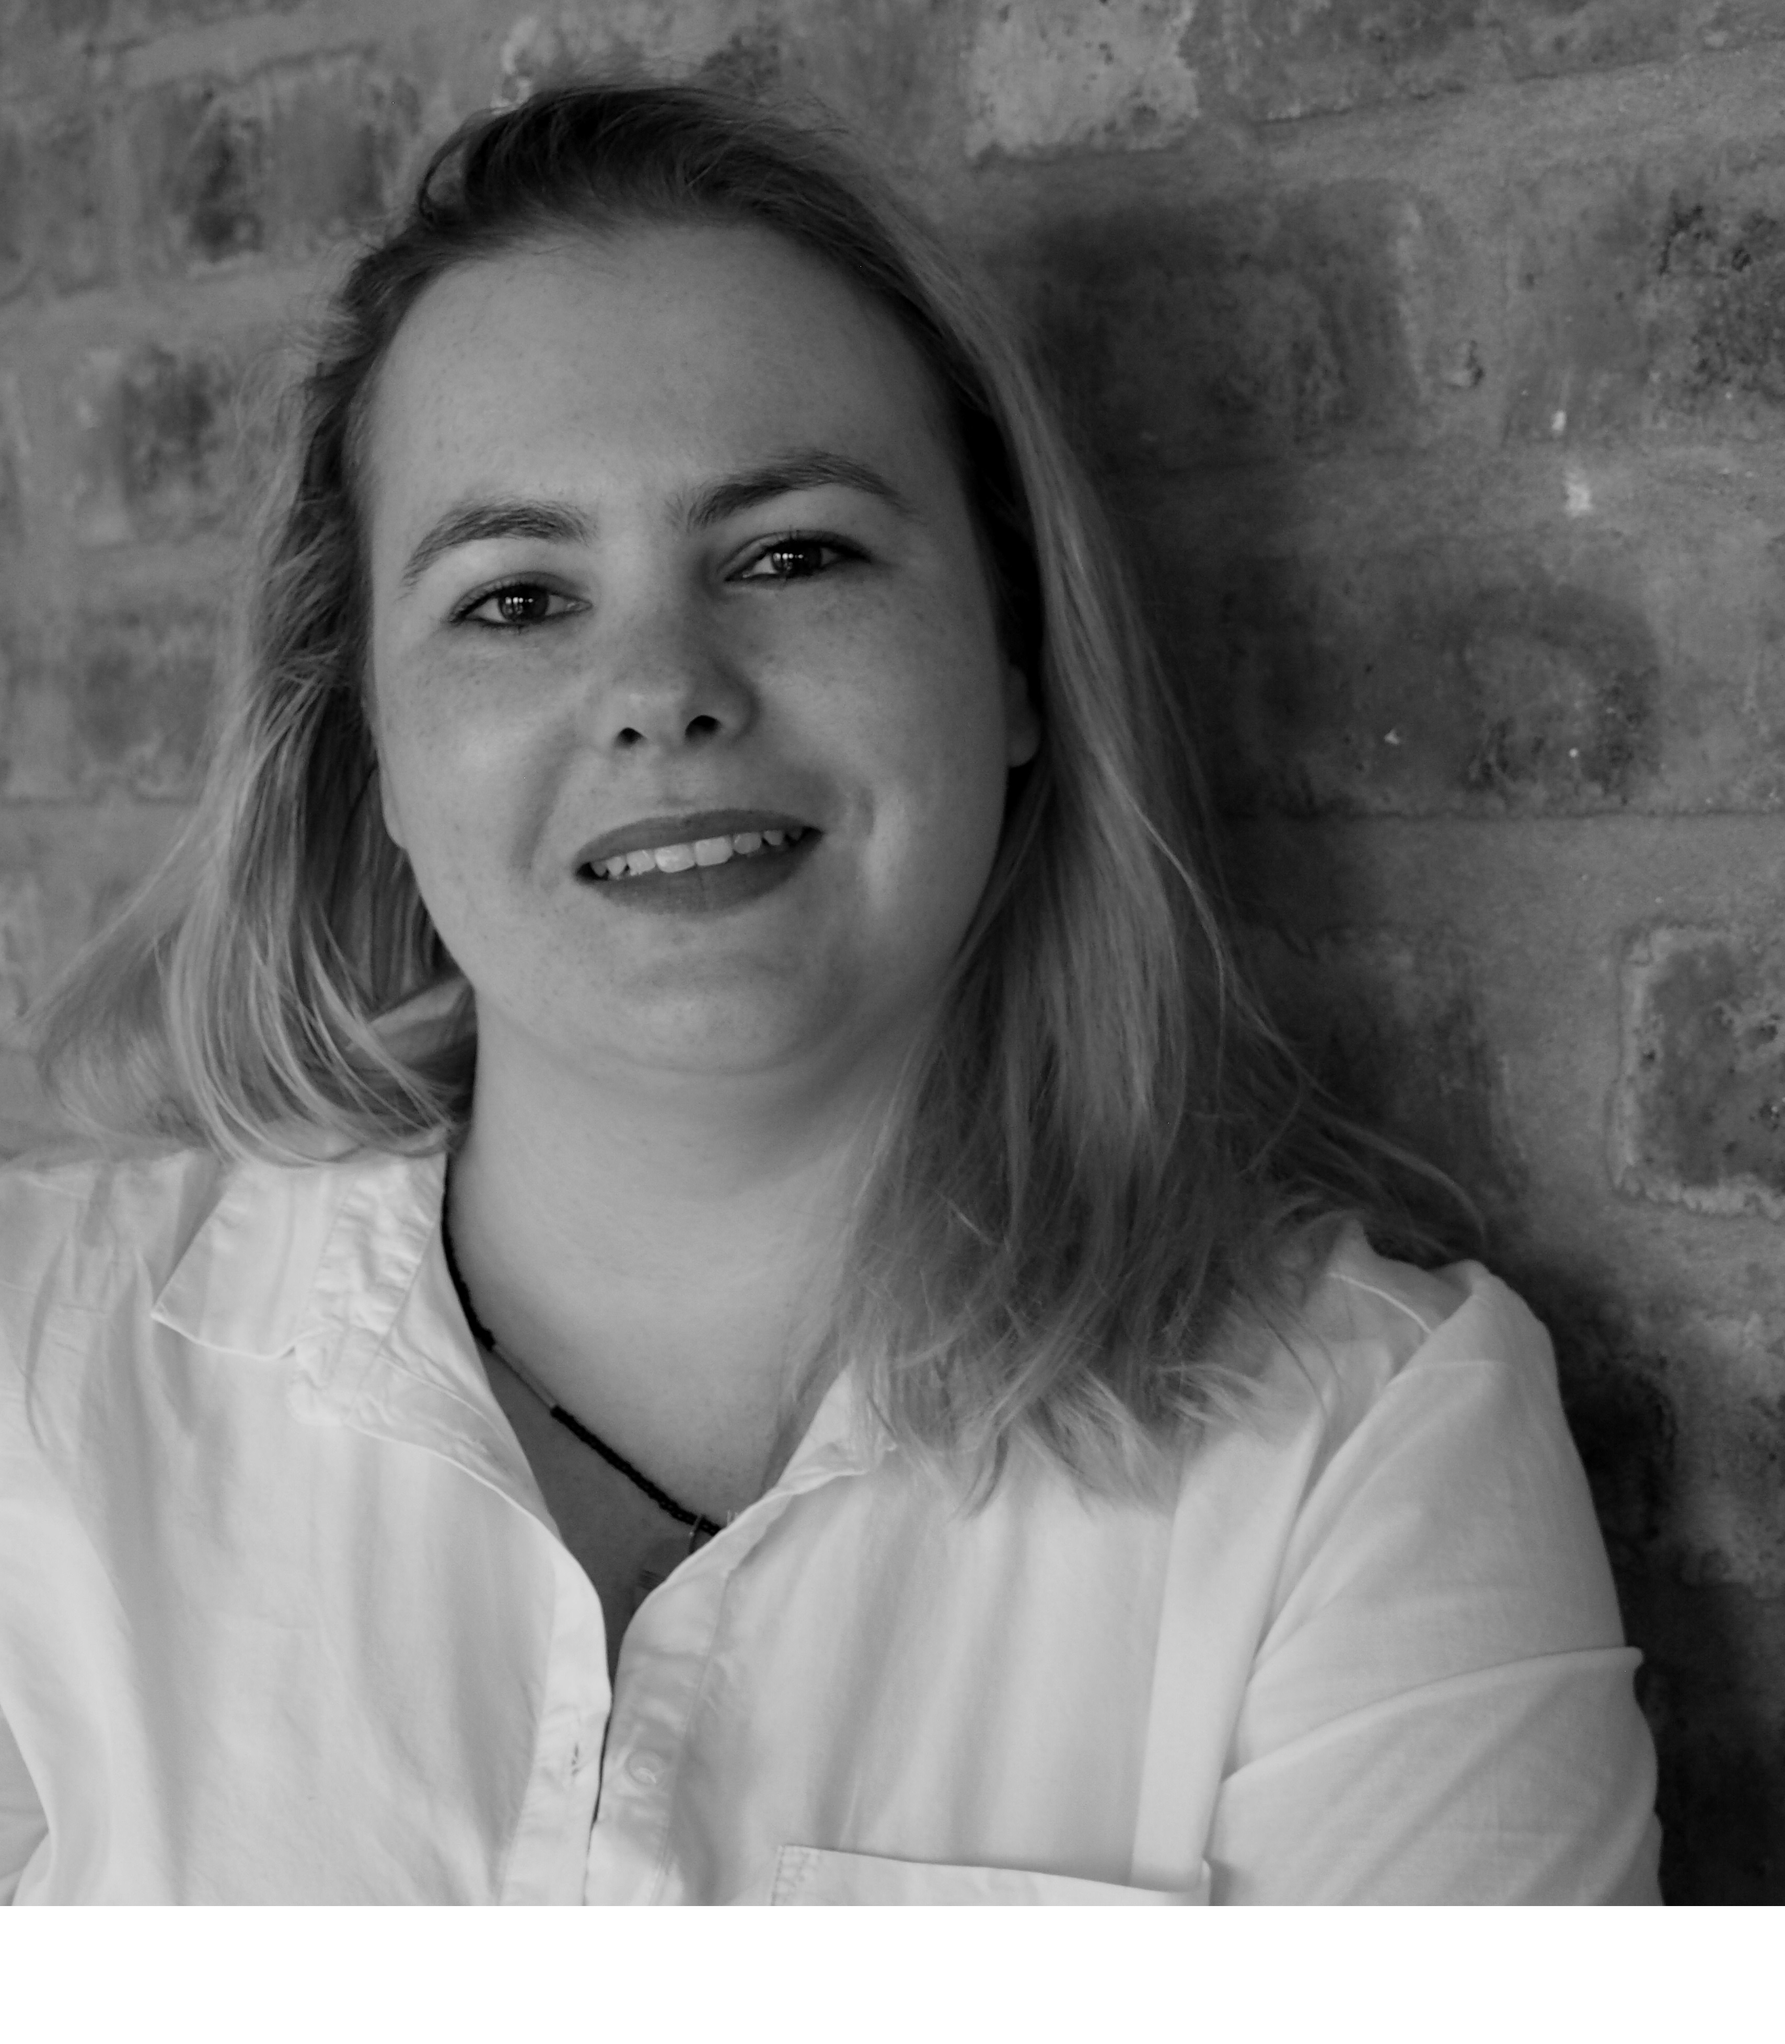
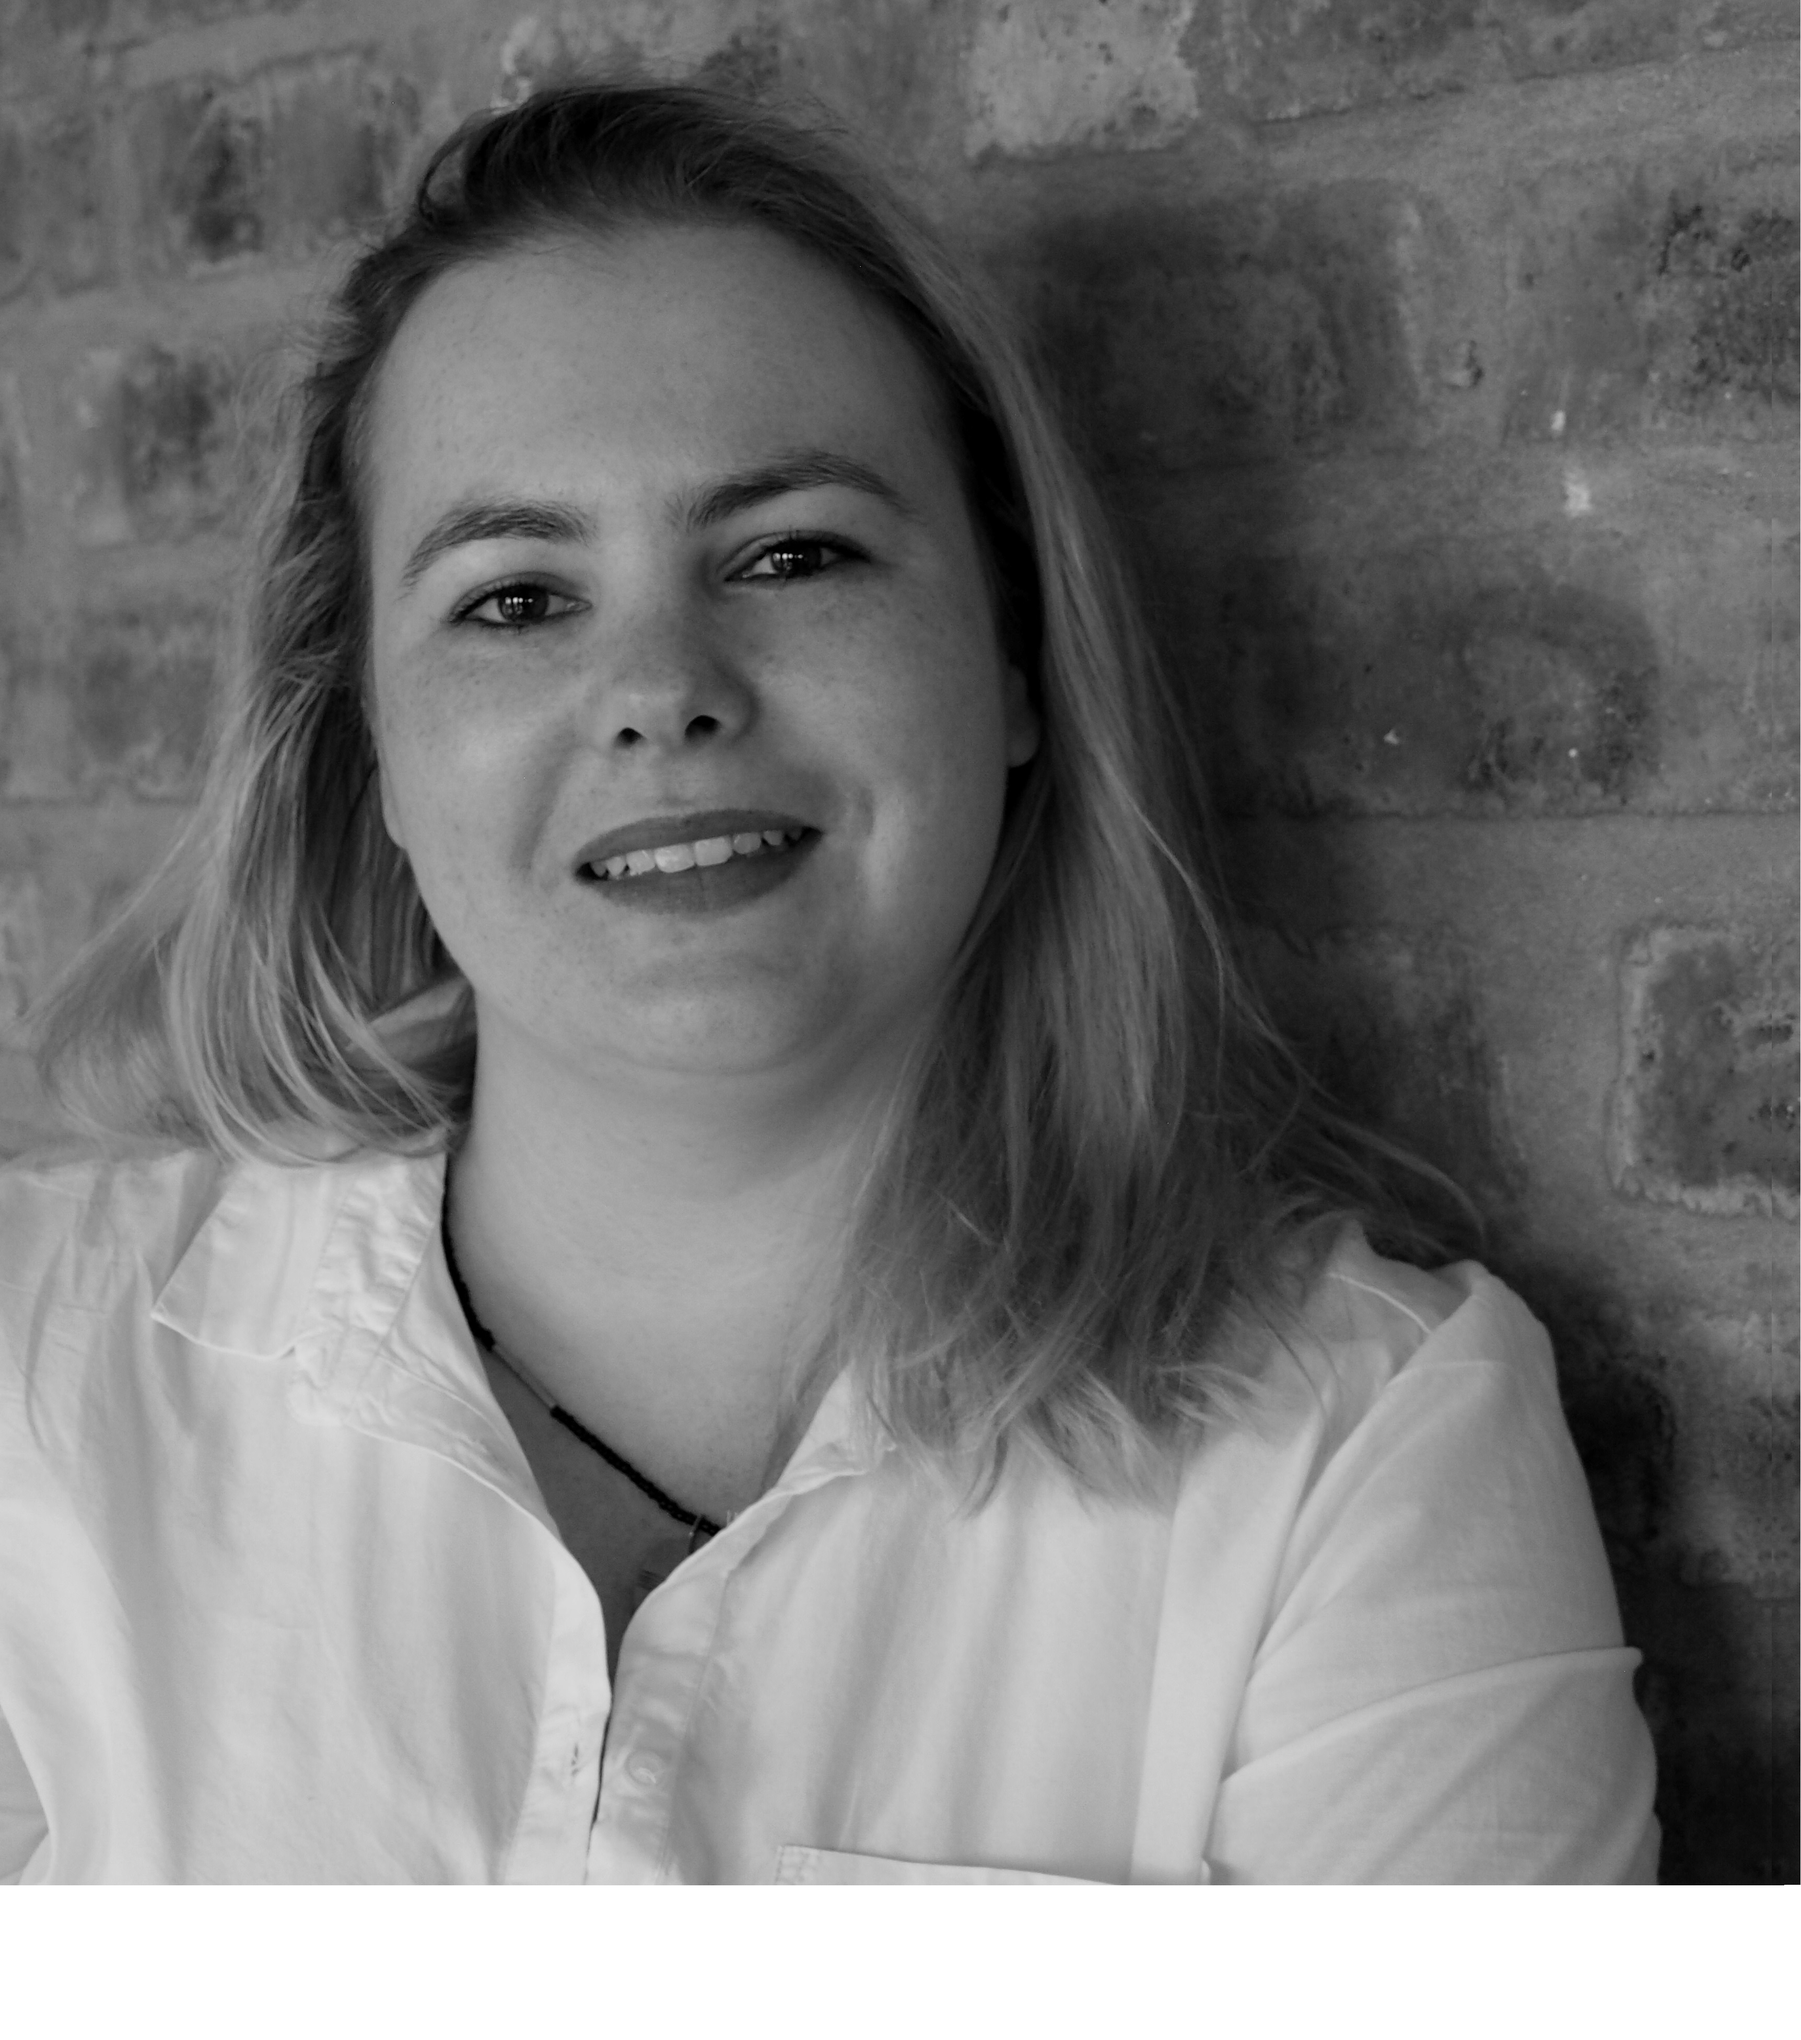
changes made

diff --git a/index.html b/index.html
@@ -18,11 +18,11 @@
       <div id="edu_btn" class="edu_toggle director">education</div>
       <div id="exp_btn" class="exp_toggle director">experience</div>
       <div id="port_btn" class="port_toggle director">portfolio</div>
-      <div id="contact_btn" class="director"><a href="#bottom_nav">contact</a></div>
+      <div id="contact_btn" class="director"><a href="#contact_jump">contact</a></div>
 
       <!-- homepage -->
       <div id="name_card" class="about">Carrie Clarke</div>
-      <div id="title_card" class="about">Junior Web Developer</div>
+      <div id="title_card" class="about">Web Development Student</div>
       <div id="about_card" class="about">I am reliable, adaptable and thoughtful, someone who enjoys expanding their knowledge base and taking on new experiences. Flexible and a proponent of systems thinking, I have a wide scope of passions and an interest in expanding the use of technology in all fields.</div>
 
       <!-- education section -->
@@ -30,20 +30,20 @@
           <h1 id="edu_title">Education</h1>
 
           <div class="edu_code">
-            <div class="">2018   - Web Development, Codespace</div>
+            <div class=""><span>2018</span>    Web Development, Codespace</div>
 
           </div>
 
           <div class="edu_school">
-            <div class="">2015   - MSc(Medical Science) Anatomy, University of Cape Town</div>
-            <div class="">2009   - Hon(Medical Science) Biological Anthropology, University of Cape Town</div>
-            <div class="">2008   - BSc Archaeology and Environmental and Geographic Science, University of Cape Town</div>
-            <div class="">2004   - Matric, Rustenburg Girls' High School</div>
+            <div class=""><span>2015</span>    MSc(Medical Science) Anatomy, University of Cape Town</div>
+            <div class=""><span>2009</span>    Hon(Medical Science) Biological Anthropology, University of Cape Town</div>
+            <div class=""><span>2008</span>    BSc Archaeology and Environmental and Geographic Science, University of Cape Town</div>
+            <div class=""><span>2004</span>    Matric, Rustenburg Girls' High School</div>
           </div>
 
           <div class="edu_other">
-            <div class="">2010   - TESOL, Cape Town School of English</div>
-            <div class="">2009   - ICDL, Rustenburg Girls' High School</div>
+            <div class=""><span>2010</span>    TESOL, Cape Town School of English</div>
+            <div class=""><span>2009</span>    ICDL, Rustenburg Girls' High School</div>
           </div>
       </div>
 
@@ -83,9 +83,9 @@
 
       <!-- portfolio section -->
       <div id="port_container" class="animated fadeInUpBig">
-        <p><a href="https://github.com/CAClarke?tab=repositories">Github <img src="img/github.png" alt="GitHub"></a>
-        <a href="https://caclarke.github.io/blog_challenge/index.html">Blog Project <img src="img/blog_index.png" alt="Blog index"></a>
-        <a href="https://github.com/CAClarke/destinations_project">Travel Project <img src="img/dest_index.png" alt="Destination index"></a></p>     
+        <p><a href="https://github.com/CAClarke?tab=repositories" target="_blank">Github <img src="img/github.png" alt="GitHub"></a>
+        <a href="https://caclarke.github.io/blog_challenge/index.html" target="_blank">Blog Project <img src="img/blog_index.png" alt="Blog index"></a>
+        <a href="https://github.com/CAClarke/destinations_project" target="_blank">Travel Project <img src="img/dest_index.png" alt="Destination index"></a></p>     
       </div>
 
       </div> 
@@ -98,7 +98,6 @@
           <div class="item"><img src="img/html5.png" alt=""></div>
           <div class="item"><img src="img/javascript.png" alt=""></div>
           <div class="item"><img src="img/jquery.png" alt=""></div>
-          <div class="item"><img src="img/mysql.png" alt=""></div>
           <div class="item"><img src="img/nodejs.png" alt=""></div>
           <div class="item"><img src="img/sass.png" alt=""></div>
           <div class="item"><img src="img/vsc.png" alt=""></div>
@@ -167,7 +166,6 @@
       });
     });
 
-    
     });//jquery end
   </script>
 </html>

diff --git a/css/styles.css b/css/styles.css
@@ -18,12 +18,12 @@ li:hover {
 #edu_title, #exp_title {
   grid-column: 2/4;
   grid-row: 2/3;
-  padding-left: 10px;
+  padding-left: 20px;
   margin-top: -10px;
   color: azure; }
 
 .edu_code, .edu_school, .edu_other, .exp_supervisor, .exp_demonstrator, .exp_alt, .exp_dj {
-  padding-top: 10px;
+  padding-top: 2px;
   padding-left: 50px;
   padding-right: 50px; }
 
@@ -73,7 +73,7 @@ body {
   background-image: url(../img/me.jpg);
   background-repeat: no-repeat;
   background-size: contain;
-  background-position: 55%;
+  background-position: right;
   font-family: "Poppins", sans-serif;
   font-size: 20px;
   text-align: left;
@@ -90,63 +90,68 @@ li {
 
 .director {
   color: #e6007e;
-  text-align: right; }
+  text-align: left;
+  margin-left: 80px; }
+
+span {
+  padding-right: 15px; }
 
 #body_container {
   width: 100%;
   height: 100%;
   margin-left: -55px;
-  padding: 0;
+  padding-left: 35px;
   display: grid;
-  grid-template-columns: 12.5% repeat(5, 15%);
-  grid-template-rows: repeat(10, 100px);
+  grid-template-columns: 10% repeat(5, 15%);
+  grid-template-rows: repeat(9, 100px);
   grid-gap: 8px;
   font-weight: bold;
-  line-height: 2; }
+  line-height: 2;
+  color: white; }
 
 #name_card {
-  grid-column: 1/3;
-  grid-row: 3/4;
+  grid-column: 6/8;
+  grid-row: 2/3;
   font-size: 35px;
   text-align: left;
   padding: 10px;
   z-index: -1;
   height: 65px;
-  margin: 5px 15px 0 45px; }
+  margin: 5px 15px 0 105px; }
 
 #title_card {
-  grid-column: 1/3;
-  grid-row: 4/5;
+  grid-column: 6/9;
+  grid-row: 3/4;
   font-size: 28px;
   text-align: left;
   padding: 10px;
   z-index: -1;
   height: 55px;
-  margin: 5px 15px 0 45px; }
+  margin-left: 105px; }
 
 #about_card {
-  grid-column: 1/3;
-  grid-row: 5/9;
+  grid-column: 6/9;
+  grid-row: 4/10;
   font-size: 20px;
   text-align: left;
   padding: 25px;
   z-index: -1;
-  margin: 5px 100px 0 45px; }
+  margin: -20px 100px 0 105px; }
 
 #edu_btn {
-  grid-column: 7/8;
+  grid-column: 1/2;
   grid-row: 4/5; }
 
 #exp_btn {
-  grid-column: 7/8;
+  grid-column: 1/2;
   grid-row: 5/6; }
 
 #port_btn {
-  grid-column: 7/8;
+  grid-column: 1/2;
   grid-row: 6/7; }
 
 #contact_btn {
-  grid-column: 7/8;
+  grid-column: 1/2;
   grid-row: 7/8; }
 
 #edu_container {
@@ -174,7 +179,8 @@ li {
 #exp_grid {
   display: grid;
   grid-template-columns: 1fr 1fr;
-  grid-template-rows: 1fr 1fr; }
+  grid-template-rows: 1fr 1fr;
+  margin-top: -40px; }
 
 .exp_supervisor {
   grid-column: 1/2;

diff --git a/scss/partials/_base.scss b/scss/partials/_base.scss
@@ -3,7 +3,7 @@ body{
     background-image: url(../img/me.jpg);
     background-repeat: no-repeat;
     background-size: contain;
-    background-position: 55%; 
+    background-position: right; 
     font-family: $baseFont;
     font-size: 20px;
     text-align: left;
@@ -23,7 +23,12 @@ li{
 
 .director{
     color: $highlightColor;
-    text-align: right;
+    text-align: left;
+    margin-left: 80px;
+}
+
+span{
+    padding-right: 15px;
 }
 
 // index styling
@@ -31,64 +36,65 @@ li{
     width: 100%;
     height: 100%;
     margin-left: -55px;
-    padding: 0;
+    padding-left: 35px;
     display: grid;
-    grid-template-columns: 12.5% repeat(5,15%);
-    grid-template-rows: repeat(10, 100px);
+    grid-template-columns: 10% repeat(5,15%);
+    grid-template-rows: repeat(9, 100px);
     grid-gap: 8px;
     font-weight: bold;
     line-height: 2;
+    color: white;
   }
 
   #name_card{
-    grid-column: 1/3;
-    grid-row: 3/4;
+    grid-column: 6/8;
+    grid-row: 2/3;
     font-size: 35px;
     text-align: left;
     padding: 10px;
     z-index: -1;
     height: 65px;
-    margin: 5px 15px 0 45px;
+    margin: 5px 15px 0 105px;
   }
 
   #title_card{
-    grid-column: 1/3;
-    grid-row: 4/5;
+    grid-column: 6/9;
+    grid-row: 3/4;
     font-size: 28px;
     text-align: left;
     padding: 10px;
     z-index: -1;
     height: 55px;
-    margin: 5px 15px 0 45px;
+    margin-left: 105px;
   }
 
   #about_card{
-    grid-column: 1/3;
-    grid-row: 5/9;
+    grid-column: 6/9;
+    grid-row: 4/10;
     font-size: 20px;
     text-align: left;
     padding: 25px;
     z-index: -1;
-    margin: 5px 100px 0 45px;
+    margin: -20px 100px 0 105px;
   }
   
 #edu_btn{
-    grid-column: 7/8;
+    grid-column: 1/2;
     grid-row: 4/5;
 }
 
 #exp_btn{
-    grid-column: 7/8;
+    grid-column: 1/2;
     grid-row: 5/6;
 }
 
 #port_btn{
-    grid-column: 7/8;
+    grid-column: 1/2;
     grid-row: 6/7;
 }
 
 #contact_btn{
-    grid-column: 7/8;
+    grid-column: 1/2;
     grid-row: 7/8;
 }
 
@@ -138,6 +144,7 @@ li{
     display: grid;
     grid-template-columns: 1fr 1fr;
     grid-template-rows: 1fr 1fr;
+    margin-top: -40px;
 }
 
 #exp_title{

diff --git a/scss/partials/_mixins.scss b/scss/partials/_mixins.scss
@@ -1,14 +1,14 @@
 %titleGrid {
     grid-column: 2/4;
     grid-row: 2/3;
-    padding-left: 10px; 
+    padding-left: 20px; 
     margin-top: -10px;
     color: azure;
 } 
 
 
 %textPadding {
-    padding-top: 10px;
+    padding-top: 2px;
     padding-left: 50px;
     padding-right: 50px;
 }
